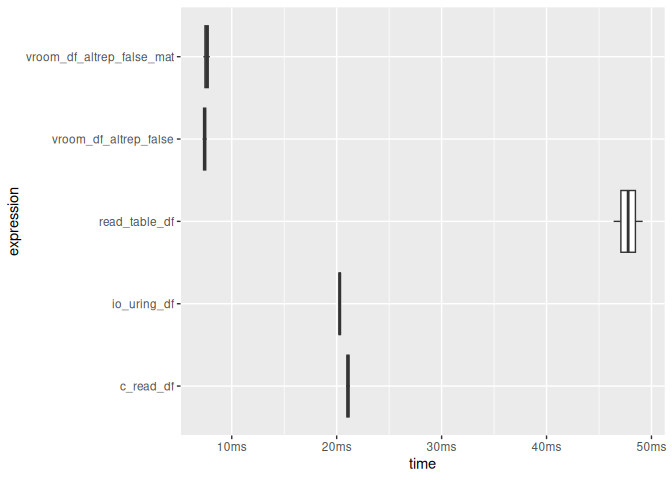
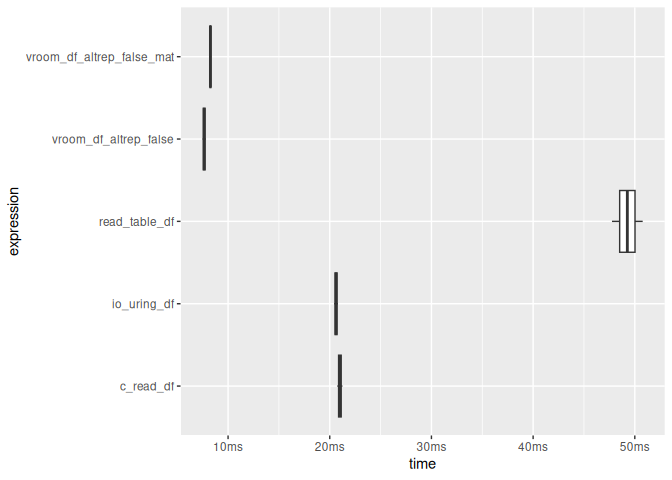
tcc_quick

diff --git a/README.md b/README.md
@@ -177,7 +177,7 @@ tcc_read_cstring(ptr)
 tcc_read_bytes(ptr, 5)
 #> [1] 68 65 6c 6c 6f
 tcc_ptr_addr(ptr, hex = TRUE)
-#> [1] "0x5bc6ec8de830"
+#> [1] "0x5994d5737c70"
 tcc_ptr_is_null(ptr)
 #> [1] FALSE
 tcc_free(ptr)
@@ -208,11 +208,11 @@ through output parameters.
 ptr_ref <- tcc_malloc(.Machine$sizeof.pointer %||% 8L)
 target <- tcc_malloc(8)
 tcc_ptr_set(ptr_ref, target)
-#> <pointer: 0x5bc6ede08040>
+#> <pointer: 0x5994d49a4b40>
 tcc_data_ptr(ptr_ref)
-#> <pointer: 0x5bc6ec266450>
+#> <pointer: 0x5994d3c374f0>
 tcc_ptr_set(ptr_ref, tcc_null_ptr())
-#> <pointer: 0x5bc6ede08040>
+#> <pointer: 0x5994d49a4b40>
 tcc_free(target)
 #> NULL
 tcc_free(ptr_ref)
@@ -275,8 +275,8 @@ bench::mark(
 #> # A tibble: 2 × 6
 #>   expression      min   median `itr/sec` mem_alloc `gc/sec`
 #>   <bch:expr> <bch:tm> <bch:tm>     <dbl> <bch:byt>    <dbl>
-#> 1 Rtinycc       900ms    900ms      1.11   134.1MB    11.1 
-#> 2 Rbuiltin      548µs    578µs   1172.      9.05KB     6.05
+#> 1 Rtinycc       904ms    904ms      1.11   134.1MB    11.1 
+#> 2 Rbuiltin      541µs    578µs   1176.      9.05KB     6.06
 
 # For performance-sensitive code, move the loop into C and operate on arrays.
 ffi_vec <- tcc_ffi() |>
@@ -305,8 +305,8 @@ bench::mark(
 #> # A tibble: 2 × 6
 #>   expression        min   median `itr/sec` mem_alloc `gc/sec`
 #>   <bch:expr>   <bch:tm> <bch:tm>     <dbl> <bch:byt>    <dbl>
-#> 1 Rtinycc_vec      97µs  103.1µs     9599.    52.8KB     6.16
-#> 2 Rbuiltin_vec   16.9µs   17.7µs    54139.    78.2KB    43.3
+#> 1 Rtinycc_vec    96.8µs  104.4µs     9489.    52.8KB     6.16
+#> 2 Rbuiltin_vec     17µs   17.7µs    53690.    78.2KB    43.0
 ```
 
 ### Variadic calls (e.g. `Rprintf` style)
@@ -428,7 +428,7 @@ ffi <- tcc_ffi() |>
 
 x <- as.integer(1:100) # to avoid ALTREP
 .Internal(inspect(x))
-#> @5bc7023f0ab8 13 INTSXP g0c0 [REF(65535)]  1 : 100 (compact)
+#> @5994e95170e8 13 INTSXP g0c0 [REF(65535)]  1 : 100 (compact)
 ffi$sum_array(x, length(x))
 #> [1] 5050
 
@@ -444,7 +444,7 @@ y[1]
 #> [1] 11
 
 .Internal(inspect(x))
-#> @5bc7023f0ab8 13 INTSXP g0c0 [REF(65535)]  11 : 110 (expanded)
+#> @5994e95170e8 13 INTSXP g0c0 [REF(65535)]  11 : 110 (expanded)
 ```
 
 ### Benchmark
@@ -514,10 +514,10 @@ print(timings)
 #> # A tibble: 4 × 13
 #>   expression            min   median `itr/sec` mem_alloc `gc/sec` n_itr  n_gc
 #>   <bch:expr>       <bch:tm> <bch:tm>     <dbl> <bch:byt>    <dbl> <int> <dbl>
-#> 1 R                 603.6ms 619.99ms      1.62     782KB    0         4     0
-#> 2 quickr             3.63ms   4.18ms    239.       782KB    2.03    472     4
-#> 3 Rtinycc_quick     17.22ms   18.1ms     55.9      796KB    0.503   111     1
-#> 4 Rtinycc_manual_c  56.91ms  57.63ms     17.3      796KB    0        35     0
+#> 1 R                600.84ms 602.09ms      1.65     782KB    0         4     0
+#> 2 quickr             3.62ms   4.04ms    246.       782KB    2.03    486     4
+#> 3 Rtinycc_quick     17.14ms  17.34ms     57.7      796KB    0.502   115     1
+#> 4 Rtinycc_manual_c  56.77ms  57.53ms     17.4      796KB    0        35     0
 #> # ℹ 5 more variables: total_time <bch:tm>, result <list>, memory <list>,
 #> #   time <list>, gc <list>
 plot(timings, type = "boxplot") + bench::scale_x_bench_time(base = NULL)
@@ -547,15 +547,15 @@ ffi <- tcc_ffi() |>
 
 p1 <- ffi$struct_point_new()
 ffi$struct_point_set_x(p1, 0.0)
-#> <pointer: 0x5bc6f19eadc0>
+#> <pointer: 0x5994ec8d9f40>
 ffi$struct_point_set_y(p1, 0.0)
-#> <pointer: 0x5bc6f19eadc0>
+#> <pointer: 0x5994ec8d9f40>
 
 p2 <- ffi$struct_point_new()
 ffi$struct_point_set_x(p2, 3.0)
-#> <pointer: 0x5bc705a61b00>
+#> <pointer: 0x5994ecd491a0>
 ffi$struct_point_set_y(p2, 4.0)
-#> <pointer: 0x5bc705a61b00>
+#> <pointer: 0x5994ecd491a0>
 
 ffi$distance(p1, p2)
 #> [1] 5
@@ -600,9 +600,9 @@ ffi <- tcc_ffi() |>
 
 s <- ffi$struct_flags_new()
 ffi$struct_flags_set_active(s, 1L)
-#> <pointer: 0x5bc7059e38e0>
+#> <pointer: 0x5994ed2ce770>
 ffi$struct_flags_set_level(s, 9L)
-#> <pointer: 0x5bc7059e38e0>
+#> <pointer: 0x5994ed2ce770>
 ffi$struct_flags_get_active(s)
 #> [1] 1
 ffi$struct_flags_get_level(s)
@@ -894,7 +894,7 @@ ffi <- tcc_ffi() |>
   tcc_compile()
 
 ffi$struct_point_new()
-#> <pointer: 0x5bc6f5ca6b80>
+#> <pointer: 0x5994ec1594e0>
 ffi$enum_status_OK()
 #> [1] 0
 ffi$global_global_counter_get()
@@ -1010,11 +1010,11 @@ if (Sys.info()[["sysname"]] == "Linux") {
 #> # A tibble: 5 × 13
 #>   expression     min  median `itr/sec` mem_alloc `gc/sec` n_itr  n_gc total_time
 #>   <bch:expr> <bch:t> <bch:t>     <dbl> <bch:byt>    <dbl> <int> <dbl>   <bch:tm>
-#> 1 read_tabl… 46.39ms 47.78ms      20.9    6.33MB        0     2     0     95.6ms
-#> 2 vroom_df_…  7.22ms  7.42ms     135.     1.22MB        0     2     0     14.8ms
-#> 3 vroom_df_…  7.29ms   7.6ms     132.     1.22MB        0     2     0     15.2ms
-#> 4 c_read_df  20.88ms 21.07ms      47.4    1.23MB        0     2     0     42.2ms
-#> 5 io_uring_… 20.17ms 20.29ms      49.3    1.23MB        0     2     0     40.6ms
+#> 1 read_tabl… 47.76ms 49.27ms      20.3    6.33MB        0     2     0     98.5ms
+#> 2 vroom_df_…  7.49ms  7.65ms     131.     1.22MB        0     2     0     15.3ms
+#> 3 vroom_df_…  8.19ms  8.26ms     121.     1.22MB        0     2     0     16.5ms
+#> 4 c_read_df  20.74ms    21ms      47.6    1.23MB        0     2     0       42ms
+#> 5 io_uring_… 20.43ms 20.62ms      48.5    1.23MB        0     2     0     41.2ms
 #> # ℹ 4 more variables: result <list>, memory <list>, time <list>, gc <list>
 ```
 
@@ -1066,11 +1066,11 @@ ffi <- tcc_ffi() |>
 o <- ffi$struct_outer_new()
 i <- ffi$struct_inner_new()
 ffi$struct_inner_set_a(i, 42L)
-#> <pointer: 0x5bc6f59eb3e0>
+#> <pointer: 0x5994dac1cdd0>
 
 # Write the inner pointer into the outer struct
 ffi$struct_outer_in_addr(o) |> tcc_ptr_set(i)
-#> <pointer: 0x5bc705a4cd60>
+#> <pointer: 0x5994ecbb1f40>
 
 # Read it back through indirection
 ffi$struct_outer_in_addr(o) |>
@@ -1099,9 +1099,9 @@ ffi <- tcc_ffi() |>
 
 b <- ffi$struct_buf_new()
 ffi$struct_buf_set_data_elt(b, 0L, 0xCAL)
-#> <pointer: 0x5bc70590ace0>
+#> <pointer: 0x5994dcfa1810>
 ffi$struct_buf_set_data_elt(b, 1L, 0xFEL)
-#> <pointer: 0x5bc70590ace0>
+#> <pointer: 0x5994dcfa1810>
 ffi$struct_buf_get_data_elt(b, 0L)
 #> [1] 202
 ffi$struct_buf_get_data_elt(b, 1L)
